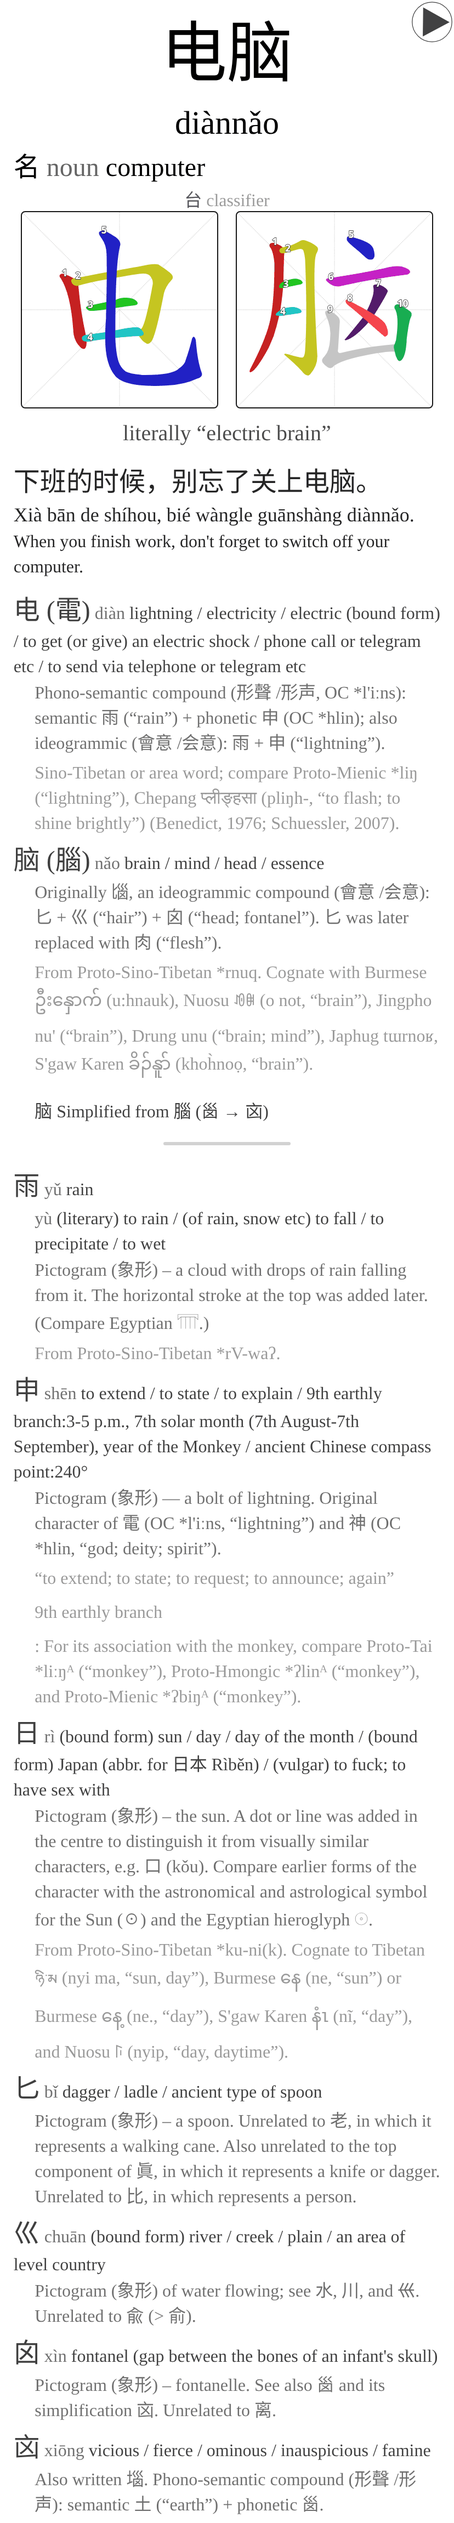
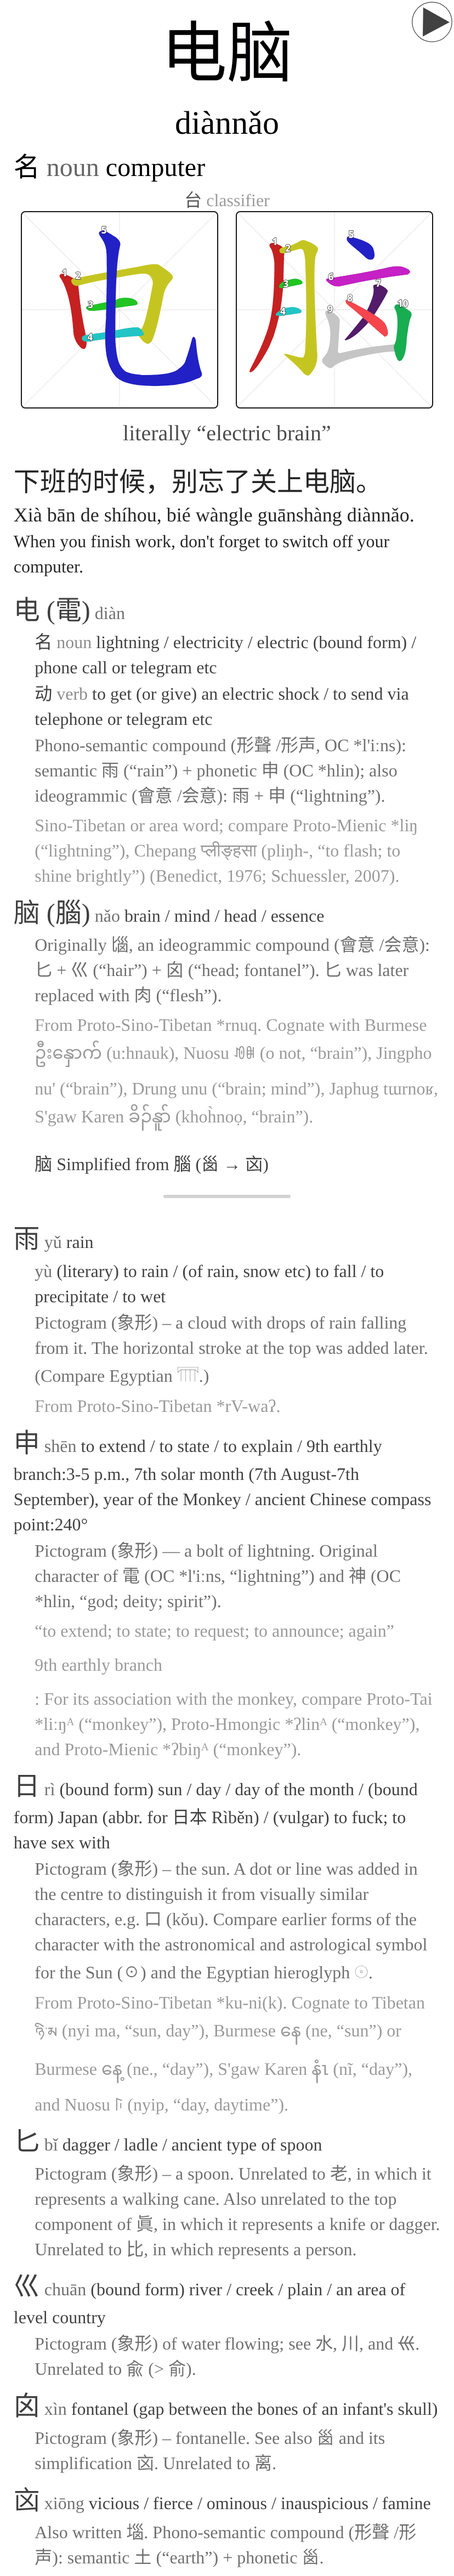
Set a component's senses out under its parts of speech
A word's headline is divided by the parts of speech the syllabus gives
it, and which sense belongs to which is written down in
data/sense-pos.csv. The rows naming the characters the word is built
from ran the same senses together: 比 read "to compare / (followed by a
noun and adjective) more {adj.} than {noun} / ratio / to gesture" in
one line, where its own card heads it as a verb, a preposition and a
noun. The character read on its own card and the character read inside
a word looked like two different things.

Only the senses already on the row, relabelled -- a division naming a
sense the row does not carry names nothing, and one the division does
not reach keeps a block at the end, so 点 keeps every sense the
dictionary gives it and gains its 量, 名 and 动.

434 characters divide; the rest have one part of speech and nothing to
separate, so they read as they did.

diff --git a/templates/style.css b/templates/style.css
@@ -308,6 +308,14 @@ img.stroke {
   text-align: left;
 }
 
+/* Inside a row naming a character, the blocks belong to that character: set under it
+   with the indent its glyph origin and its other readings take, rather than centred on
+   the card the way the word's own headline is. */
+.gloss .charSense {
+  max-width: none;
+  margin: 1px 0 0 1.2em;
+}
+
 /* A meaning the dictionary gives under a part of speech the syllabus does not teach
    the word as. Worth knowing, not what is being asked. */
 .beyond { font-size: 16px; opacity: 0.7; }

diff --git a/scripts/04_build_apkg.py b/scripts/04_build_apkg.py
@@ -403,6 +403,18 @@ def clean_xrefs(text: str) -> str:
     return out.strip(" /")
 
 
+def sense_key(text: str) -> str:
+    """A sense reduced to what it says, so the same sense written two ways is one.
+
+    The syllabus's division of a meaning is written in the dictionary's own notation --
+    "(bound form) branch of (an organization); sub- (as in 分局[fen1 ju2])" -- and a card
+    carries the same sense rendered, as "分局 fēnjú". Punctuation and spacing go too: a
+    row that reached the card through one cleaning and a division that reached it
+    through another differ by a bracket as readily as by anything else.
+    """
+    return re.sub(r"[^a-z0-9一-鿿]", "", clean_xrefs(text).lower())
+
+
 def spoken(pinyin: str) -> str:
     """谁 is shéi, also shuí -- one word with a second pronunciation, not two words.
     A slash reads as though they were alternatives of equal standing."""
@@ -1521,15 +1533,7 @@ def build_characters(words, wiki, media, number, gloss, pos, readings) -> list:
         down, and the writing card can say it. Where a reading is taught once there is
         nothing to divide and the dictionary's own entry stands.
         """
-        blocks = []
-        for w in readings.entries.get(ch, []):
-            if syllable(w["pinyin_numbered"]) != numbered:
-                continue
-            if not w["pos"]:
-                continue
-            split = w.get("meaning_by_pos") or [("、".join(w["pos"]), w["meaning"])]
-            taught = pos.taught(w["pos"], split)
-            blocks += [(p, m, p in taught) for p, m in split]
+        blocks = pos.divided(readings.entries.get(ch, []), numbered)
         # The dictionary's own glosses arrive cleaned and spaced about their slashes;
         # these come from the word list, where 之 still reads "literary equivalent of
         # 的[de5]" and 会 reads "to know how to/to be likely to".
@@ -1853,6 +1857,25 @@ class PartsOfSpeech:
         named = set(cls.named(pos))
         return named if any(p in named for p, *_ in split) else {p for p, *_ in split}
 
+    def divided(self, entries: list, numbered: str) -> list:
+        """[(part of speech, senses, taught)] for the entries reading a character the
+        way the card reads it.
+
+        會 is one entry of six senses to the dictionary and two words to the syllabus,
+        會1 a verb and 會2 a noun, so the division is already written down and a card
+        showing the character can say it. Every entry at that reading, since two of
+        them are two words written alike and both are the character in front of you.
+        """
+        blocks = []
+        for w in entries:
+            ways = [syllable(x) for x in w["pinyin_numbered"].split("/") if x.strip()]
+            if numbered not in ways or not w["pos"]:
+                continue
+            split = w.get("meaning_by_pos") or [("、".join(w["pos"]), w["meaning"])]
+            taught = self.taught(w["pos"], split)
+            blocks += [(p, m, p in taught) for p, m in split]
+        return blocks
+
     def senses(self, m: str) -> str:
         """One part of speech's worth of meaning, as CC-CEDICT divides it."""
         return self.wiki.markup(" / ".join(
@@ -1985,7 +2008,7 @@ Glossary = collections.namedtuple(
     " etym_block examples example_of example_word")
 
 
-def read_glossary(words, wiki, readings) -> Glossary:
+def read_glossary(words, wiki, readings, pos) -> Glossary:
     """What a character means, what it is made of, and the words it is met in.
 
     A vocabulary card glosses the characters inside its word and a writing card
@@ -2109,6 +2132,50 @@ def read_glossary(words, wiki, readings) -> Glossary:
         return (f'<div class=origin>{first}</div>'
                 + (LATER + later if sep else ""))
 
+    def under_pos(ch: str, reading: str, senses: str) -> str:
+        """The row's senses set out under the parts of speech the syllabus divides them
+        into, or nothing where it divides them into one.
+
+        比 is a verb, a preposition and a noun, and which of "to compare / more {adj.}
+        than {noun} / ratio / to gesture" is which is already written down -- the same
+        division the word's own card is headed by. The row ran all four together, so
+        the character read on its own card and the character read inside a word were
+        two different-looking things.
+
+        The senses are the row's own, relabelled and no more: a division naming a sense
+        the row does not carry names nothing, and a sense the division does not reach
+        keeps a block at the end. The dictionary reads 点 in more ways than the
+        syllabus teaches it, and none of them is dropped for going unlabelled.
+        """
+        blocks = pos.divided(readings.entries.get(ch, []), reading)
+        if len(blocks) < 2:
+            return ""
+        here = [x.strip() for x in senses.split("/") if x.strip()]
+        at = collections.defaultdict(list)
+        for i, s in enumerate(here):
+            at[sense_key(s)].append(i)
+        out, used = [], set()
+        for p, m, taught in blocks:
+            mine = []
+            for s in m.split("/"):
+                if at.get(sense_key(s)):
+                    i = at[sense_key(s)].pop(0)
+                    used.add(i)
+                    mine.append(here[i])
+            if mine:
+                out.append((p, mine, taught))
+        if not out:
+            return ""
+        rest = [s for i, s in enumerate(here) if i not in used]
+        return "".join(
+            f'<div class="charSense{"" if taught else " beyond"}">'
+            f'{"" if taught else "also "}{pos.label(p)} '
+            f'{wiki.markup(html.escape(" / ".join(mine), quote=False))}</div>'
+            for p, mine, taught in out) + (
+            f'<div class=charSense>'
+            f'{wiki.markup(html.escape(" / ".join(rest), quote=False))}</div>'
+            if rest else "")
+
     def components(simplified: str, numbered: str = "",
                    traditional: str = "") -> str:
         """One entry per character: what it means, then where the glyph came from.
@@ -2190,7 +2257,8 @@ def read_glossary(words, wiki, readings) -> Glossary:
                 said += (' <span class=sandhi>(' + " / ".join(worn) + " here)</span>")
             body = (f'<b>{wiki.label(label, trad)}</b>'
                     f'{f" <span class=charRead>{said}</span>" if said else ""} '
-                    f'{wiki.markup(html.escape(senses, quote=False))}'
+                    f'{under_pos(ch, reading_of.get(ch, ""), senses)
+                       or wiki.markup(html.escape(senses, quote=False))}'
                     f'{also_read(ch, shown or spoken_numbers(ch, heard))}')
             if origin:
                 body += origin_block(origin)
@@ -2744,7 +2812,7 @@ def main() -> int:
     tone_hint.__defaults__ = (groups, pos.en)
     also_read.__defaults__ = (by_entry_all, pos)
     readings = readings_taught(words)
-    gloss = read_glossary(words, wiki, readings)
+    gloss = read_glossary(words, wiki, readings, pos)
 
     vocabulary = build_vocabulary(words, wiki, media, number, gloss, pos,
                                   groups, by_entry_all)
